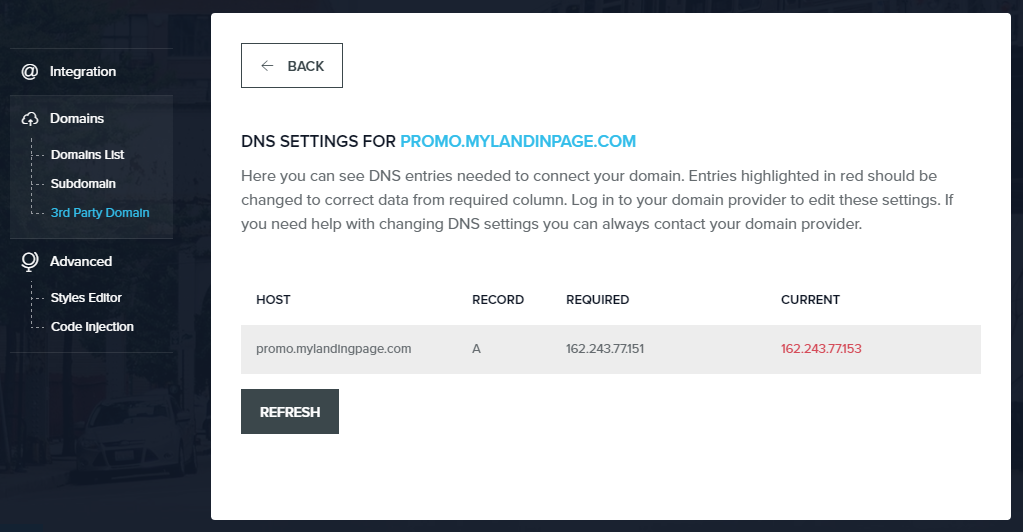
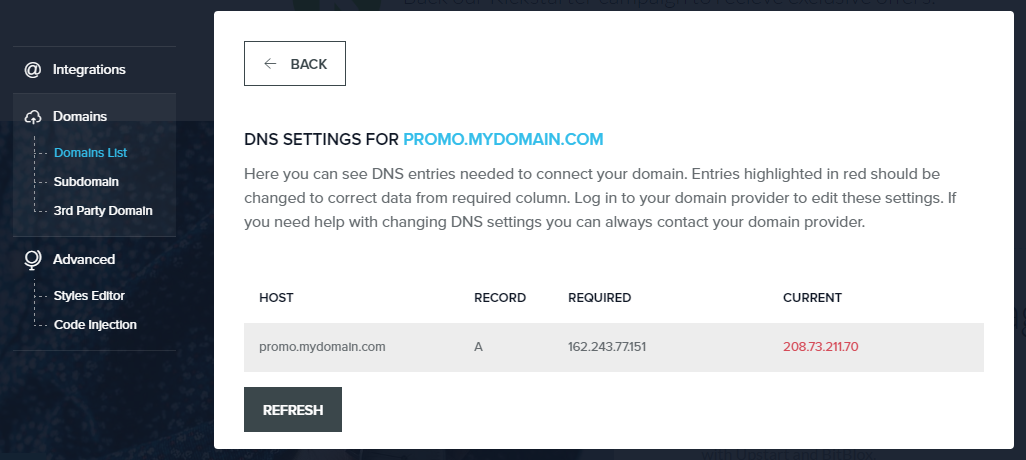
..

diff --git a/publishing/third-party-domains/dreamhost/index.rst b/publishing/third-party-domains/dreamhost/index.rst
@@ -163,7 +163,7 @@ Set up your subdomain with DreamHost
 
 		|bitblox-click-3-rd-party-domain|
 
-12. In the **Domain Name** box enter the full domain name you want to link (ex: ``promo.mylandingpage.com``), and then click **Connect Domain** button
+12. In the **Domain Name** box enter the full domain name you want to link (ex: ``promo.mydomain.com``), and then click **Connect Domain** button
 
 
     .. class:: screenshot
